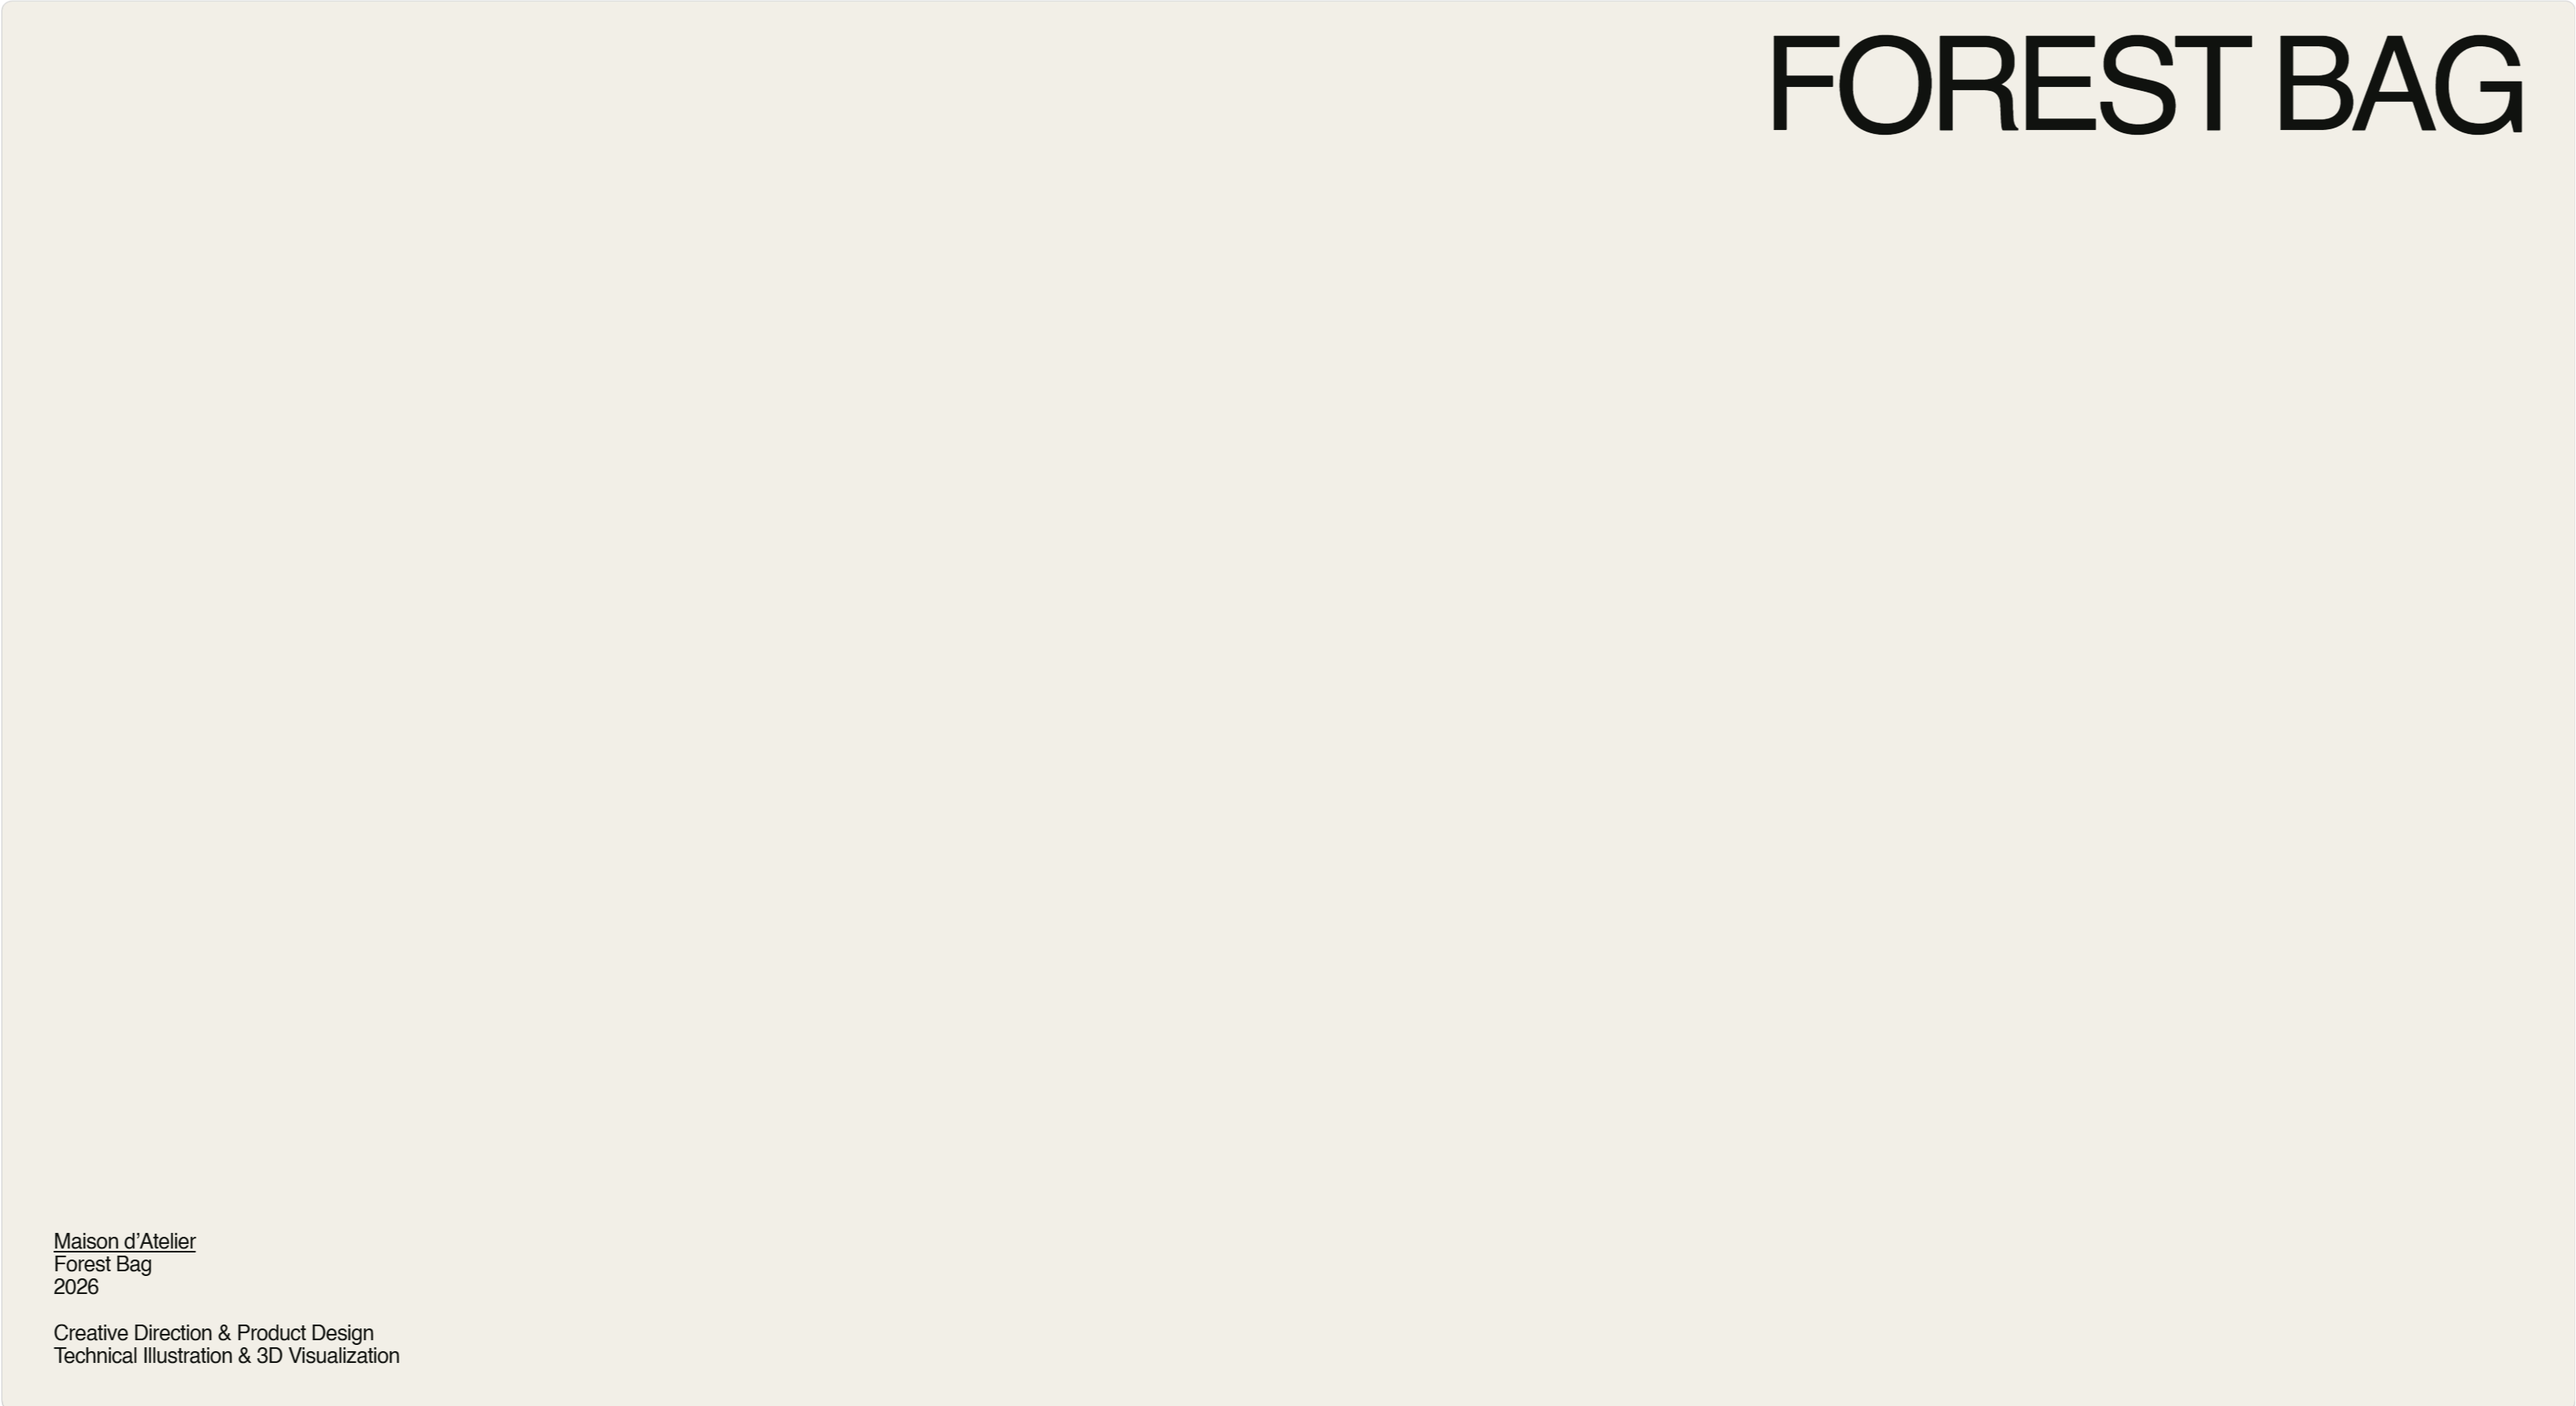
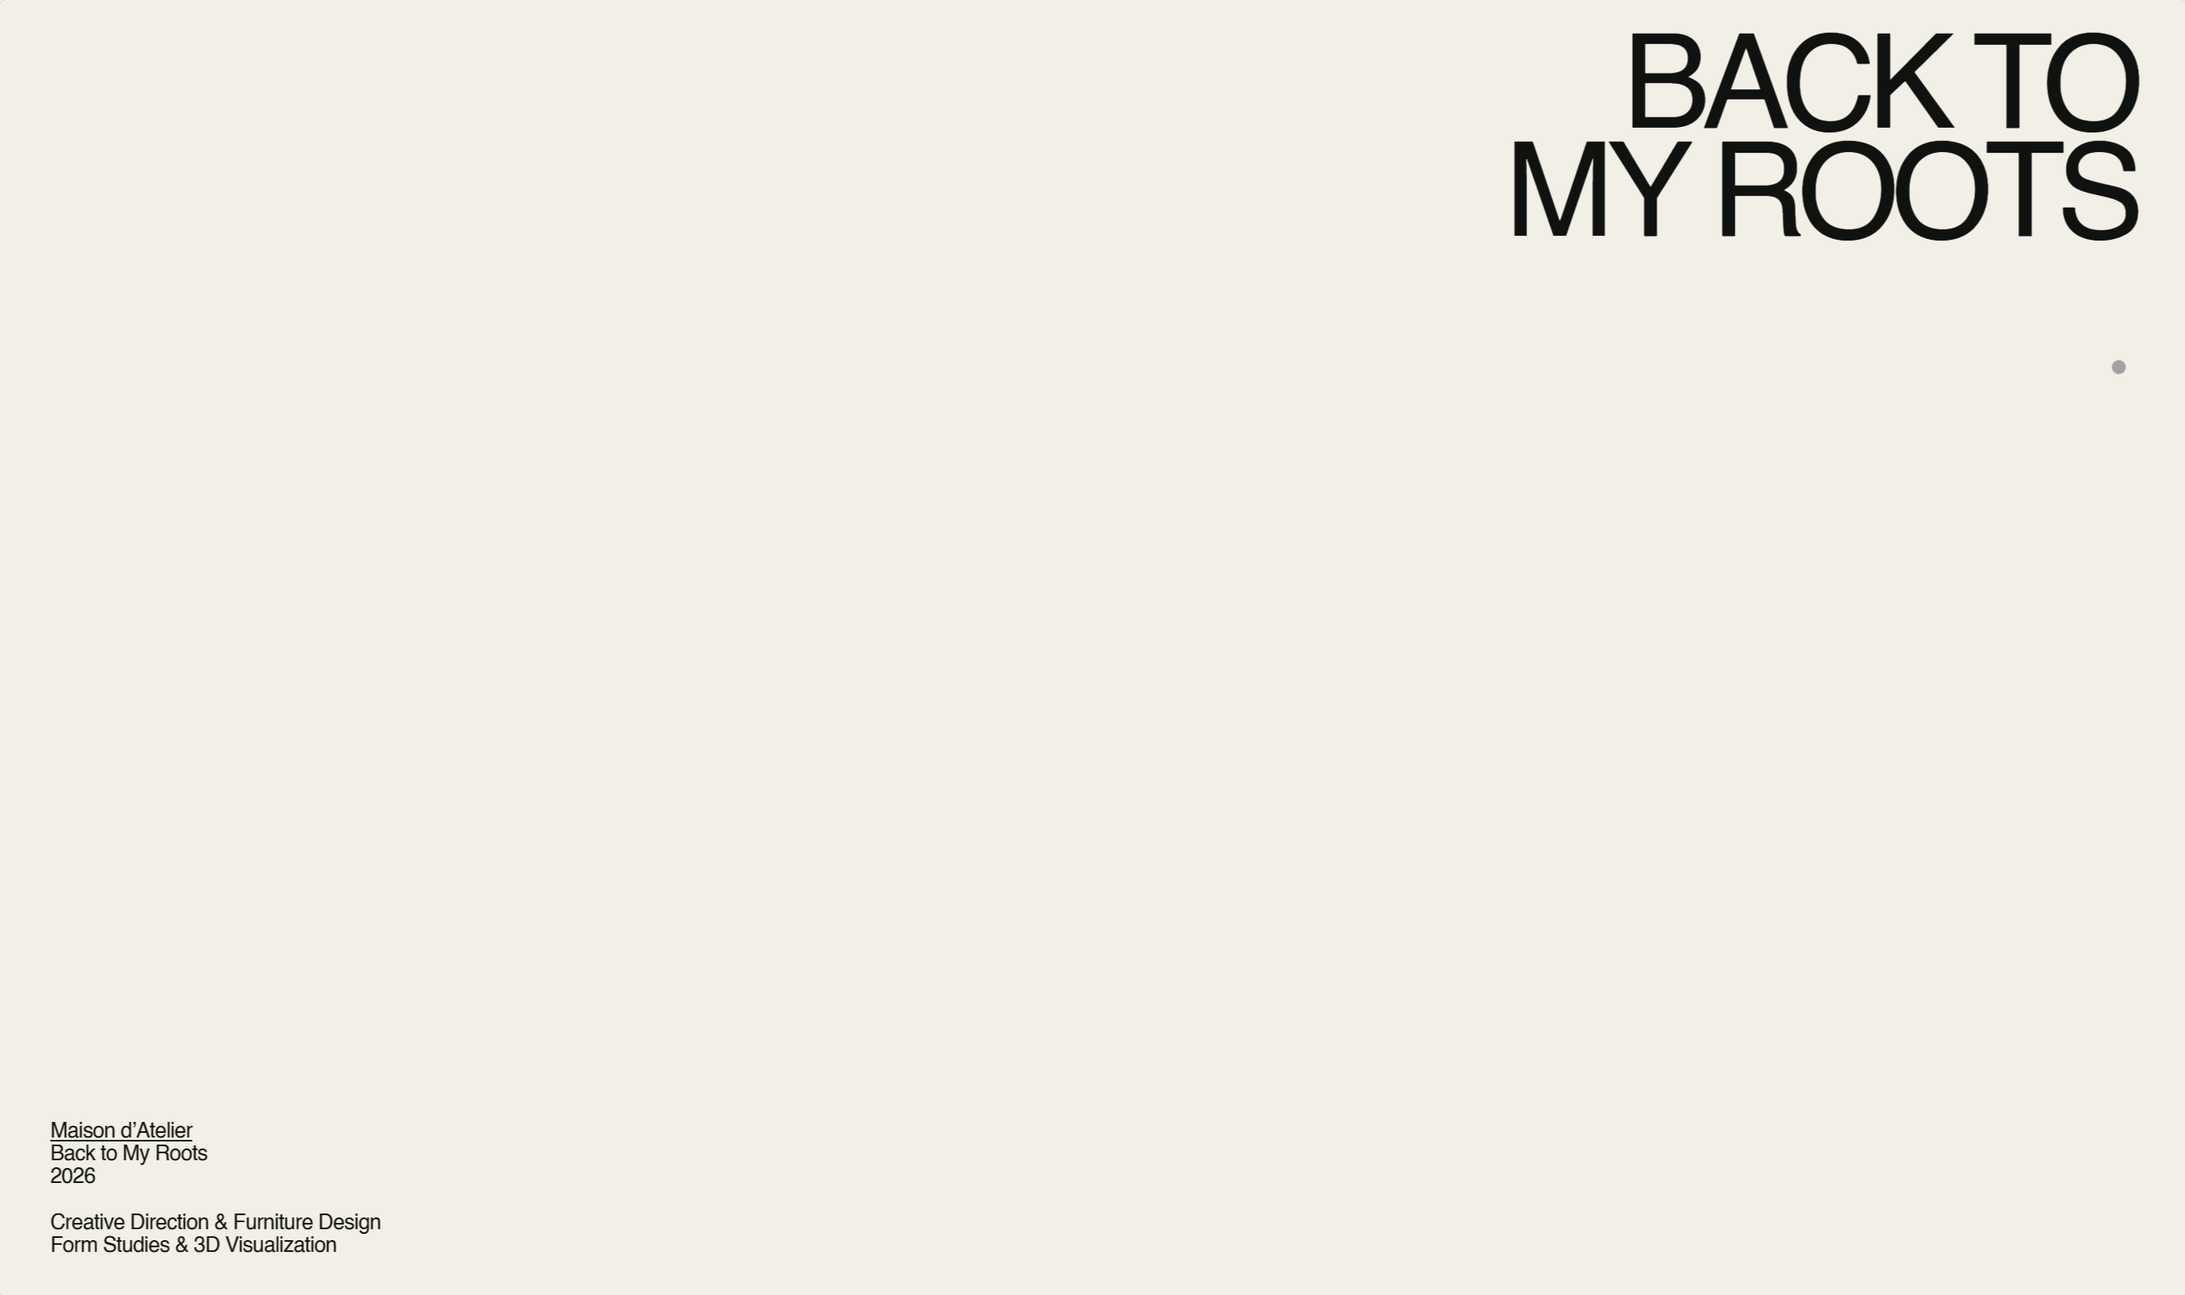
Restore body text, restrict caption styling, and replace Roots cover

Changed region(s): [[0.686, 0.0, 0.9978, 0.1851], [0.0, 0.8639, 0.1871, 0.9873]]

diff --git a/README.md b/README.md
@@ -4,18 +4,19 @@
 <img src="media/2d-technical.webp" width="100%" alt="Back to My Roots technical study">
 ![Clay blockout](media/images/clay-blockout.webp)
 
-<h6>Two heavy end blocks hold a long recessed seat. A central seam continues through the seat and back, while rounded lower edges soften the mass. The process question is how to keep that construction legible without making the object feel like an assembly of unrelated pieces.</h6>
+Two heavy end blocks hold a long recessed seat. A central seam continues through the seat and back, while rounded lower edges soften the mass. The process question is how to keep that construction legible without making the object feel like an assembly of unrelated pieces.
 
 This archive pairs the original Maya modeling captures with the finished timber views from the project page. The screenshots identify Autodesk Maya and a `Chair_8_smooth` scene; the evidence supports a polygon-modeling and visualization study, not a Houdini simulation or a fabricated furniture prototype.
 
 ## 01 / Establishing the mass
 
-<h6>The pale blockout exposes proportion before grain and reflections become dominant. The tall end blocks, long span and stepped seat/back connection are already present. Comparing this image with the later viewport captures is more informative than inspecting only the finished dark surface.</h6>
+The pale blockout exposes proportion before grain and reflections become dominant. The tall end blocks, long span and stepped seat/back connection are already present. Comparing this image with the later viewport captures is more informative than inspecting only the finished dark surface.
 
 ![Modeling still comparison](media/gif/modeling-review.gif)
 
-<h6><a href="media/video/modeling-review.mp4">Modeling review — still-image comparison</a><br>
-This review film was assembled from selected screenshots, holding each for two seconds. It is not a recovered animation or a continuous recording of modeling operations.</h6>
+<a href="media/video/modeling-review.mp4">Modeling review — still-image comparison</a>
+
+This review film was assembled from selected screenshots, holding each for two seconds. It is not a recovered animation or a continuous recording of modeling operations.
 
 ## 02 / Wireframe and orthographic checks
 
@@ -23,7 +24,7 @@ This review film was assembled from selected screenshots, holding each for two s
 ![Maya wireframe front](media/images/wireframe-front.webp)
 ![Maya wireframe top](media/images/wireframe-top.webp)
 
-<h6>The angled view exposes the dense edge structure around the end block and the transition into the span. Front and top views make the seam and stepped profile easier to judge without perspective distortion. The screenshots preserve the working viewport, including areas where overlapping lines are visually difficult to read.</h6>
+The angled view exposes the dense edge structure around the end block and the transition into the span. Front and top views make the seam and stepped profile easier to judge without perspective distortion. The screenshots preserve the working viewport, including areas where overlapping lines are visually difficult to read.
 
 ## 03 / Shaded form and junctions
 
@@ -31,23 +32,26 @@ This review film was assembled from selected screenshots, holding each for two s
 ![Seat and back junction](media/images/seat-back-junction.webp)
 ![Central seam detail](media/images/central-seam.webp)
 
-<h6>The shaded views remove the wireframe so the shape can be checked on its own. The close-ups focus on two decisions that remain visible in the final object: where the seat meets the raised back, and how the central seam crosses the surface.<br>
-These captures show inspection states and selected components. They do not provide enough evidence to assign every view to a distinct design revision or claim a particular mesh operation caused the change.</h6>
+The shaded views remove the wireframe so the shape can be checked on its own. The close-ups focus on two decisions that remain visible in the final object: where the seat meets the raised back, and how the central seam crosses the surface.
+
+These captures show inspection states and selected components. They do not provide enough evidence to assign every view to a distinct design revision or claim a particular mesh operation caused the change.
 
 ## 04 / Components and underside
 
 ![Construction review](media/gif/construction-review.gif)
 
-<h6>The selected end components and underside view reveal geometry hidden in the hero angle. They make the rounded bottom edge and the way the span enters the end block inspectable.<br>
-<a href="media/video/construction-review.mp4">Construction review — still-image comparison</a></h6>
+The selected end components and underside view reveal geometry hidden in the hero angle. They make the rounded bottom edge and the way the span enters the end block inspectable.
+
+<a href="media/video/construction-review.mp4">Construction review — still-image comparison</a>
 
 ## 05 / Timber, grain and the finished form
 
 ![Final front timber view](media/images/front-studio-square.webp)
 ![Final three-quarter timber view](media/images/three-quarter-studio-square.webp)
 
-<h6>The dark, low-sheen timber treatment brings the grain close to the surface while preserving the seam. The rounded lower edge is quieter than in the clay view, but still softens the weight of each end block. The finished views can be read against the earlier front, top and junction captures rather than as isolated beauty shots.<br>
-<a href="docs/media-index.md#images">All working and final views</a></h6>
+The dark, low-sheen timber treatment brings the grain close to the surface while preserving the seam. The rounded lower edge is quieter than in the clay view, but still softens the weight of each end block. The finished views can be read against the earlier front, top and junction captures rather than as isolated beauty shots.
+
+<a href="docs/media-index.md#images">All working and final views</a>
 
 ## Archive notes
 
